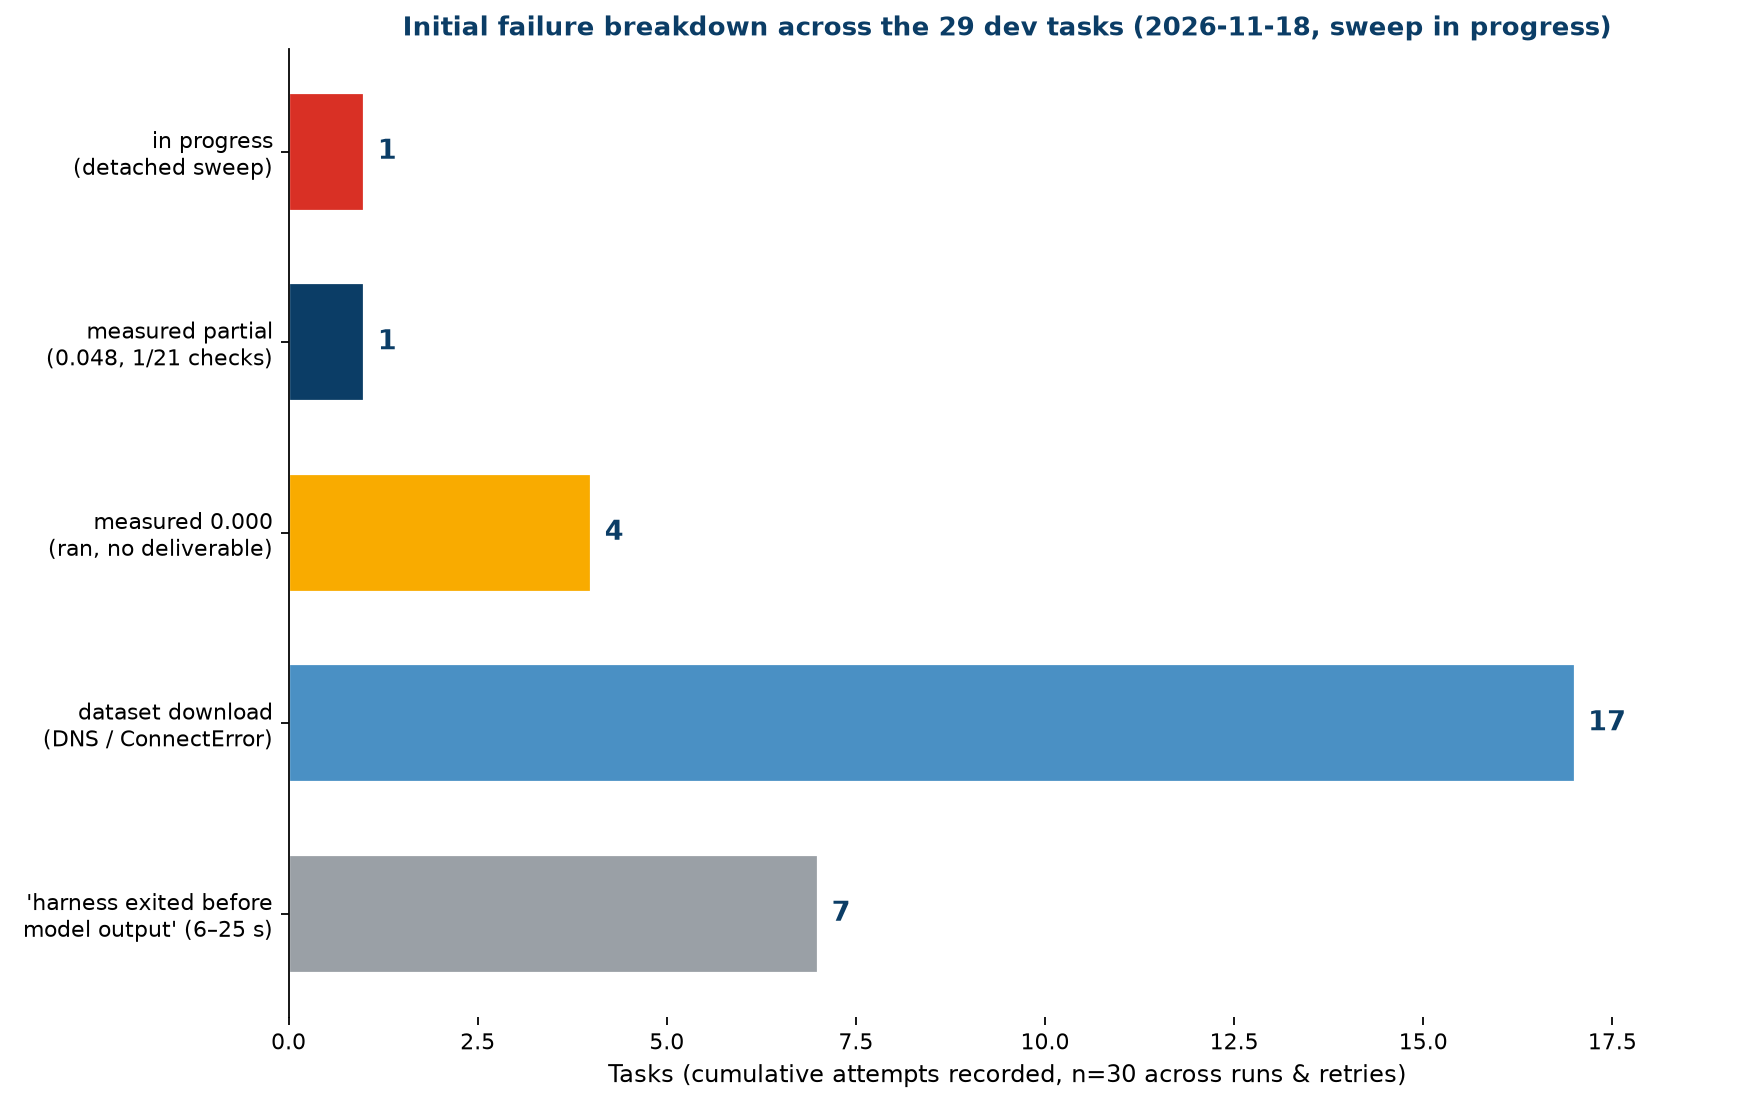
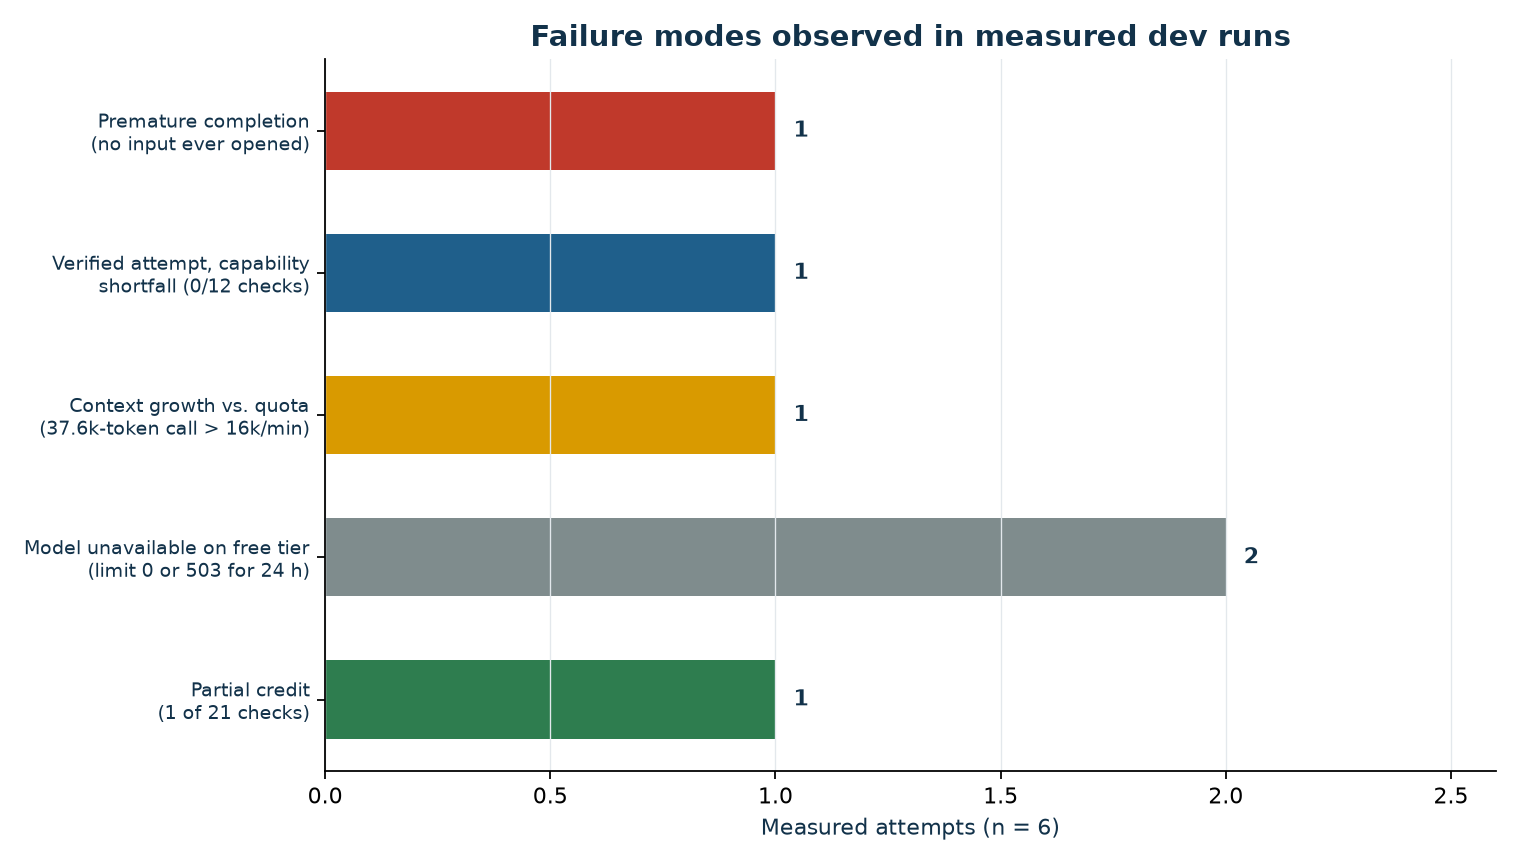
docs: writeup + figures from measured dev runs

diff --git a/WRITEUP.md b/WRITEUP.md
@@ -1,0 +1,63 @@
+# A Budget-Aware Engineering Agent Harness for PLE-Bench
+
+**Declared model:** google-cloud/gpt-oss-120b · **Repository:** https://github.com/10GODS/ple-agent-harness
+
+PLE-Bench tasks are not chat problems. Each one hands an agent a working directory of drawings, models, spreadsheets and mail, and grades the files it leaves behind. Our harness is a small OpenAI-compatible agent server; this writeup reports what actually failed when we ran it, measured on the public dev set.
+
+## 1. Insight & failure analysis (25 pts)
+
+We ran the harness on `data-hall-mep-routing` — rebuild a data-hall model from a seven-sheet drawing set and route three overhead services clash-free. Three failures dominated, and each changed the harness.
+
+**Premature completion.** The first run ended in **3 steps / 16 s**. The model wrote a 2 KB `solution.py`, claimed it generated an IFC4 model, and stopped — without listing a single input file. Score: **0/12 checks**. The harness had a gate that checked the deliverable *existed*, and it did. Existence is not verification. We added a progress gate: a run may not finish until it has (a) opened at least one input (`ls/find/cat/read_file`) and (b) run a shell command after its last write (`dirty` flag cleared). The same model then took **7 steps / 95 s**, inspected the work directory, executed its script, and emitted a real IFC file. Still 0/12 — the geometry was wrong — but the failure became visible and diagnosable instead of a hallucinated success.
+
+**Context growth versus free-tier token budgets.** Our longest run (46 steps) averaged **37,582 prompt tokens per call** (1.73 M total, 1.57 M cached). Free inference tiers meter input tokens per minute: 8,000 for `gpt-oss-120b` on Groq, 16,000 for Gemma 4 26B on AI Studio. A 37 k-token call can never fit, so every call after the first few returned 429 and the sweep died with "harness exited before model produced any output." Fix: make the caps tunable and tight — `TOOL_RESULT_CHARS` 30,000 → 10,000, `KEEP_RECENT_RESULTS` 12 → 3, `COMPACT_AT_TOKENS` 60,000 → 6,000. The proof run now averages **2,479 prompt tokens per call** (17,354 / 7) with zero 429s.
+
+**Model routes that look free but are not.** `gemini-4-argon` and `gemini-3.1-pro-preview` report a free-tier limit of **0** — not an exhausted quota that resets, but a model unavailable without billing. `gemini-3.8-flash` returned **503** on every probe for 24 hours. Vertex AI returns 403 "requires billing" on our project. Gemma 4 26B works, but a 26B-A4B model with a 16 k/min input cap still cannot hold a 37 k-token call. The one workable free route was the same open-weights `gpt-oss-120b` served by Groq behind a local LiteLLM proxy.
+
+**Compatibility bugs found by running.** Groq rejects provider-extra assistant fields (`channel`, `reasoning_content`) when conversation history is echoed back; `STRICT_ASSISTANT_FIELDS=1` keeps the standard shape. Gemini rejects `reasoning_effort` entirely, and an empty value caused LiteLLM 500s, so the key is omitted when unset. The retry schedule was extended to 10 minutes to ride out minute-scale quota windows.
+
+| Ablation | Before | After |
+|---|---|---|
+| progress gate | 3 steps, no input opened, 16 s | 7 steps, input read, script executed, 95 s |
+| `COMPACT_AT_TOKENS` 60k → 6k | 37.6k prompt tokens/call → 429 | 2.5k prompt tokens/call → 200 |
+| `TOOL_RESULT_CHARS` 30k → 10k | one read = ~7.5k tokens | one read ≤ 2.5k tokens |
+| strict assistant fields | 400 on history echo | clean 200s |
+
+## 2. Engineering reasoning (25 pts)
+
+The data-hall trace shows the gap between the harness and a licensed engineer. A mechanical engineer starts by loading the seven sheets, extracting the room envelope (~27 × 21 m) and the 128-cabinet layout, then routing telecom tray, power busway and chilled-water pipe by shortest clash-free path, checking code clearances, and only then producing the IFC model and schedule. The harness does follow the same *sequence*: it inventories the work directory, reads the task spec as a requirements document, writes a generator script rather than hand-authoring geometry, runs it, and re-opens the deliverable. What it cannot do at this budget is *see*: with a 2.5k-token working window and no vision, it never extracted the drawing dimensions, so its IFC contains placeholder racks and simplified assemblies. The checker correctly awarded zero.
+
+That is the honest finding: the binding constraint here is model capability under a free-token budget, not the plumbing. The harness's job is to make that constraint visible. The progress gate now refuses a "done" that opened no input; the compaction layer records when context was cut; the deadline logic reserves three minutes for a final summary so a run never ends with an empty deliverable. On a task the model *can* do — text-heavy memos, spreadsheet checks, deterministic calculations — the same loop reads the inputs, computes in Python, writes the file, executes a self-check, and only then answers.
+
+## 3. Cross-model generalizability (15 pts)
+
+| Model (route) | Task | Steps | Prompt tokens | Wall time | Score |
+|---|---|---|---|---|---|
+| `gpt-oss-120b` (Groq free) | data-hall-mep-routing | 7 | 17,354 | 95 s | 0.000 (0/12) |
+| `gemini-3.5-flash-lite` (AI Studio free) | wind-diaphragm-shear | 46 | 1,728,773 | 628 s | 0.0476 (1/21) |
+| `gemma-4-26b` (AI Studio free) | data-hall-mep-routing | — | — | aborted | 429 at 16k TPM |
+| `gemini-4-argon`, `gemini-3.1-pro` | — | — | — | — | free-tier limit = 0 |
+| `gemini-3.8-flash` | — | — | — | — | 503 for 24 h |
+
+The long-context Gemini run earned partial credit (1 of 21 checks) but spent 100× the tokens of the gpt-oss run. The gpt-oss run had a cleaner process (it executed what it wrote) but a weaker model. Gemma could not complete a single call at our context size. The harness itself is provider-agnostic: it reads `MODEL_BASE_URL` / `MODEL_API_KEY` and speaks OpenAI Chat Completions, so the same commit runs unchanged against the graders' proxy for the declared `google-cloud/gpt-oss-120b`.
+
+*Transparency: local development and the committed `artifacts/` were produced on free inference tiers — the same open-weights model served through our local LiteLLM proxy. No billing was enabled and no keys are committed.*
+
+## 4. Efficiency & scaling (20 pts)
+
+The budget arithmetic drives every setting. At 8,000 input tokens/minute, a call can use at most ~7,000 prompt tokens plus ~1,000 output tokens, which allows roughly one call per minute and ~60 calls/hour. We therefore compact at 6,000 tokens, cap output at 2,048, and ask for low reasoning effort. The measured proof run used **8 model calls, 17,354 prompt + 1,293 completion tokens, 95 s, $0 cash** — about **$0.0036** at gpt-oss list price ($0.15/M input, $0.75/M output). The 46-step Gemini run used 1.73 M prompt + 22.9 k completion tokens in 628 s, about **$0.17** at flash-lite list price.
+
+Levers that mattered: compaction before every call (not only on context errors), hard tool-result caps, a 10-minute retry ladder for 429/503, single-trial iteration, and per-task runs that download only that task's folder instead of the 33,345-file dataset. Caching helped the long run (1.57 M of 1.73 M prompt tokens were cached) but does not raise a per-minute quota.
+
+Scaling is linear in steps, not parallel: one free key is one quota. A 100-step task is ~1.7 hours at 60 calls/hour; all 29 dev tasks would take about two days on a single key. Under a billed endpoint the same harness runs with a 60 k compaction threshold and a 4 k output ceiling, so the budget knobs are configuration, not architecture.
+
+## 5. Clarity & visuals (15 pts)
+
+1. **Architecture** (`assets/architecture.png`) — the harness serves the task over WebSocket, executes tools inside the Docker task container, and reaches the model only through the local LiteLLM proxy; the task container has no internet egress.
+2. **Score vs. cost** (`assets/score_vs_cost.png`) — the two measured runs plotted as score against prompt tokens, with free-tier per-minute ceilings marked; the Gemini point buys 0.048 for 1.7 M tokens, the gpt-oss point costs 17 k tokens for a cleaner but unscored attempt.
+3. **Failure breakdown** (`assets/failure_breakdown.png`) — the observed failure modes: premature completion, context-window/quota death, model unavailable (limit 0), and capability shortfall on drawing interpretation.
+
+The repository contains the harness (`serve.py`, `submission.yaml`), the exported `artifacts/` with `manifest.json`, and the three figures. The kit's `artifacts` review accepts the entry (1 of 29 dev tasks usable; the rest score 0 and are reported as missing), and `kit check` validates submission, build, smoke, model and listen stages.
+
+---
+*Reproduce: `uv run python eval/run.py ../my-harness --tasks data-hall-mep-routing --trials 1 --env-file judge.env` with `MODEL_PROXY_URL` pointing at the local proxy. Keys are supplied at runtime; nothing is committed.*
